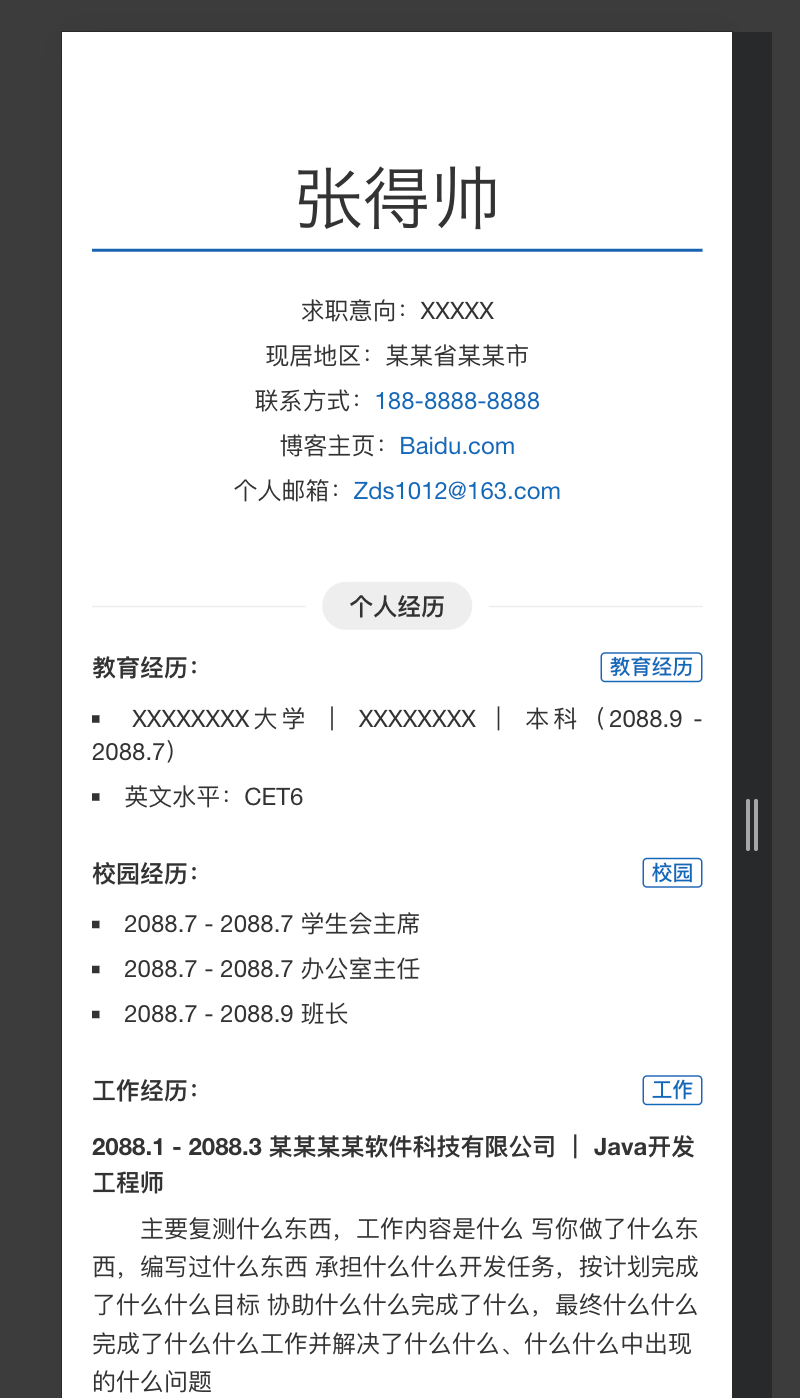
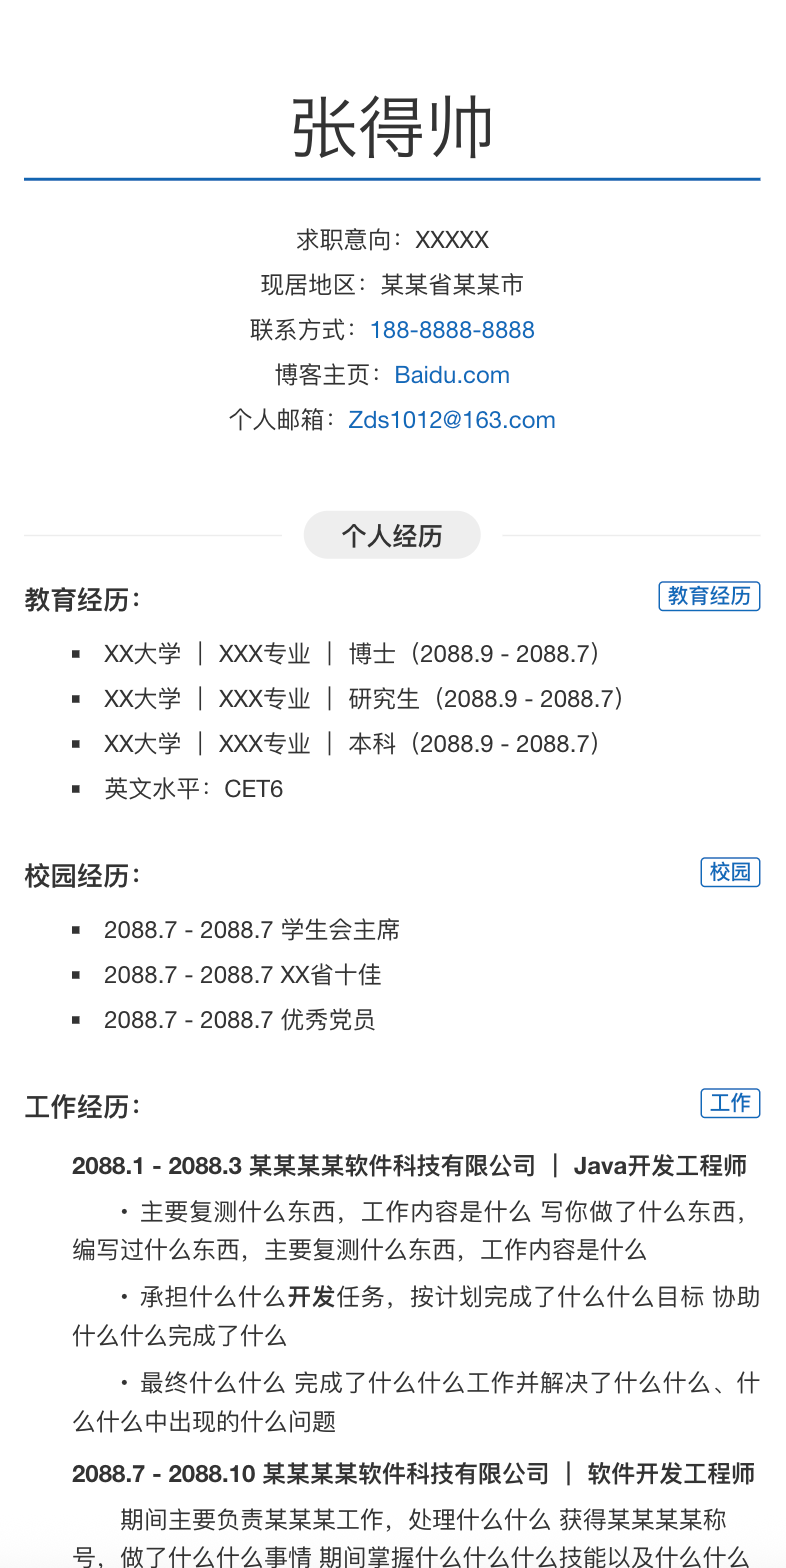
update

diff --git a/index.html b/index.html
@@ -35,7 +35,9 @@
                 "title": "教育经历：",
                 "tag": "教育经历",
                 "items": [
-                  "XXXXXXXX大学 ｜ XXXXXXXX ｜ 本科（2088.9 - 2088.7）",
+                  "XX大学 ｜ XXX专业 ｜ 博士（2088.9 - 2088.7）",
+                  "XX大学 ｜ XXX专业 ｜ 研究生（2088.9 - 2088.7）",
+                  "XX大学 ｜ XXX专业 ｜ 本科（2088.9 - 2088.7）",
                   "英文水平：CET6"
                 ]
               },
@@ -44,8 +46,8 @@
                 "tag": "校园",
                 "items": [
                   "2088.7 - 2088.7   学生会主席",
-                  "2088.7 - 2088.7   办公室主任",
-                  "2088.7 - 2088.9   班长"
+                  "2088.7 - 2088.7   XX省十佳",
+                  "2088.7 - 2088.7   优秀党员"
                 ]
               },
               {
@@ -55,7 +57,7 @@
                   {
                     "name": "2088.1 - 2088.3  某某某某软件科技有限公司 ｜ Java开发工程师",
                     "dtoList": [
-                      "主要复测什么东西，工作内容是什么 写你做了什么东西，编写过什么东西，主要复测什么东西，工作内容是什么 写你做了什么东西，编写过什么东西，主要复测什么东西，工作内容是什么 写你做了什么东西，编写过什么东西",
+                      "主要复测什么东西，工作内容是什么 写你做了什么东西，编写过什么东西，主要复测什么东西，工作内容是什么",
                       "承担什么什么*开发*任务，按计划完成了什么什么目标 协助什么什么完成了什么",
                       "最终什么什么 完成了什么什么工作并解决了什么什么、什么什么中出现的什么问题"
                     ]

diff --git a/README.md b/README.md
@@ -9,7 +9,7 @@ Github Pages部署：https://zhskevin.github.io/render-resume/
 
 PC端：
 
-<img src="imgs/pc.png" width="500" alt="pc端预览" style="zoom:20%;" />
+<img src="imgs/pc.png" alt="pc端预览" style="zoom:20%;" />
 
 移动端：
 
